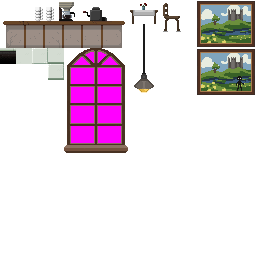
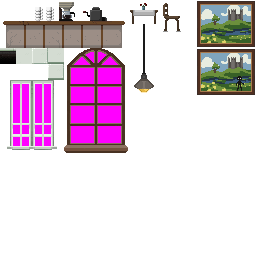
particles and props

Changed region(s): [[0.0312, 0.3125, 0.2188, 0.5938]]

diff --git a/core/src/fi/jakojaannos/unstable/renderer/RenderPosters.java b/core/src/fi/jakojaannos/unstable/renderer/RenderPosters.java
@@ -36,6 +36,10 @@ public class RenderPosters implements EcsSystem<RenderPosters.Input>, AutoClosea
     private final Texture tohtori;
     private final Texture statuetable;
     private final Texture medrep;
+    private final Texture npcMies;
+    private final Texture npcMies2;
+    private final Texture npcNaine;
+    private final Texture npcNaine2;
 
     public RenderPosters(SpriteBatch spriteBatch) {
         this.spriteBatch = spriteBatch;
@@ -55,6 +59,10 @@ public class RenderPosters implements EcsSystem<RenderPosters.Input>, AutoClosea
         this.tohtoriDed = new Texture("doctor_ded.png");
         this.statuetable = new Texture("rintakuvaPöytäSpooky.png");
         this.medrep = new Texture("medicareport_SMALLL.png");
+        this.npcMies = new Texture("npcmies1.png");
+        this.npcMies2 = new Texture("npcmies2.png");
+        this.npcNaine = new Texture("npcnaine1.png");
+        this.npcNaine2 = new Texture("npcnaine2.png");
 
         this.variants = new TextureRegion[][]{
                 {
@@ -66,8 +74,8 @@ public class RenderPosters implements EcsSystem<RenderPosters.Input>, AutoClosea
                         new TextureRegion(this.tilesCafe, 196, 48, 64, 48),
                 },
                 {
-                        new TextureRegion(this.tilesCafe, 64, 48, 64, 105),
-                        new TextureRegion(this.tilesCafe, 64, 48, 64, 105),
+                        new TextureRegion(this.tilesCafe, 0, 80, 64, 73),
+                        new TextureRegion(this.tilesCafe, 0, 80, 64, 73),
                 },
                 {
                         new TextureRegion(this.tilesCafe, 0, 0, 128, 48),
@@ -140,6 +148,30 @@ public class RenderPosters implements EcsSystem<RenderPosters.Input>, AutoClosea
                         new TextureRegion(this.medrep),
                         new TextureRegion(this.medrep),
                 },
+                {
+                        new TextureRegion(this.tilesCafe, 128, 0, 32, 24),
+                        new TextureRegion(this.tilesCafe, 128, 0, 32, 24),
+                },
+                {
+                        new TextureRegion(this.npcMies, 0, 0, 32, 48),
+                        new TextureRegion(this.npcMies, 32, 0, 32, 48),
+                },
+                {
+                        new TextureRegion(this.npcMies2, 32, 0, -32, 48),
+                        new TextureRegion(this.npcMies2, 64, 0, -32, 48),
+                },
+                {
+                        new TextureRegion(this.tilesCafe, 128, 24, 32, 72),
+                        new TextureRegion(this.tilesCafe, 128, 24, 32, 72),
+                },
+                {
+                        new TextureRegion(this.npcNaine, 0, 0, 32, 48),
+                        new TextureRegion(this.npcNaine, 32, 0, 32, 48),
+                },
+                {
+                        new TextureRegion(this.npcNaine2, 32, 0, -32, 48),
+                        new TextureRegion(this.npcNaine2, 64, 0, -32, 48),
+                },
         };
 
         this.interact = Gdx.audio.newSound(Gdx.files.internal("PaperTurnPage.ogg"));
@@ -170,7 +202,7 @@ public class RenderPosters implements EcsSystem<RenderPosters.Input>, AutoClosea
                  }
 
                  final var isAnimated = switch (poster.type) {
-                     case Furnace -> true;
+                     case Furnace, NpcMIES, NpcMIES2, NpcNAINE, NpcNAINE2 -> true;
                      default -> false;
                  };
 
@@ -186,6 +218,8 @@ public class RenderPosters implements EcsSystem<RenderPosters.Input>, AutoClosea
 
                      final var loopDuration = switch (poster.type) {
                          case Furnace -> 2.5f;
+                         case NpcMIES, NpcNAINE -> 0.5f;
+                         case NpcMIES2, NpcNAINE2 -> 2.25f;
                          default -> 1.0f;
                      };
 

diff --git a/core/src/fi/jakojaannos/unstable/acts/intro/CafeIntroRoom.java b/core/src/fi/jakojaannos/unstable/acts/intro/CafeIntroRoom.java
@@ -85,10 +85,35 @@ public class CafeIntroRoom {
 
                 for (int i = 0; i < 3; i++) {
                     world.spawn(Poster.create(
-                            new Vector2(2.0f + i * 7.0f, 2.0f),
+                            new Vector2(3.0f + i * 7.0f, 12.0f),
+                            Poster.Type.Lambu,
+                            null));
+
+                    world.spawn(Poster.create(
+                            new Vector2(2.0f + i * 7.0f, 3.0f),
                             Poster.Type.WINDOW,
                             null));
+
+                    world.spawn(Poster.create(
+                            new Vector2(3.0f + i * 7.0f, 1.0f),
+                            Poster.Type.TABLE,
+                            null));
+
+                    world.spawn(Poster.create(
+                            new Vector2(1f + i * 7.0f, 1.0f),
+                            i % 2 == 0 ? Poster.Type.NpcNAINE : Poster.Type.NpcMIES,
+                            null));
+
+                    world.spawn(Poster.create(
+                            new Vector2(5.0f + i * 7.0f, 1.0f),
+                            i % 2 == 0 ? Poster.Type.NpcMIES2 : Poster.Type.NpcNAINE2,
+                            null));
                 }
+
+                world.spawn(Poster.create(
+                        new Vector2(23.0f, 4.75f),
+                        Poster.Type.PAINTING,
+                        null));
 
                 world.spawn(Nurse.create(new Vector2(10.0f, 1.0f)));
             }

diff --git a/core/src/fi/jakojaannos/unstable/components/tasks/MoveKys.java b/core/src/fi/jakojaannos/unstable/components/tasks/MoveKys.java
@@ -1,12 +1,13 @@
 package fi.jakojaannos.unstable.components.tasks;
 
+import com.badlogic.gdx.graphics.Color;
 import com.badlogic.gdx.math.Vector2;
 import fi.jakojaannos.unstable.components.MovementInput;
 import fi.jakojaannos.unstable.components.PhysicsBody;
 import fi.jakojaannos.unstable.ecs.Entity;
 import fi.jakojaannos.unstable.resources.Resources;
 
-public class MoveKys<T> implements Task<T>{
+public class MoveKys<T> implements Task<T> {
     private final Vector2 target;
     private final float targetDistance2;
 
@@ -33,7 +34,14 @@ public class MoveKys<T> implements Task<T>{
     public void doAction(Entity entity, Resources resources) {
         final var playerPos = resources.player.getComponent(PhysicsBody.class).orElseThrow().getPosition();
         final var distToPlayer = playerPos.dst2(entity.getComponent(PhysicsBody.class).orElseThrow().getPosition());
-        if(distToPlayer <= this.targetDistance2){
+        if (distToPlayer <= this.targetDistance2) {
+
+            var tick = resources.timeManager.currentTick();
+            final var body = entity.getComponent(PhysicsBody.class).orElseThrow();
+            final var pos = body.getPosition().cpy();
+            pos.add(body.getWidth() / 2.0f, body.getHeight() / 2.0f);
+            resources.particles.burst(pos, new Color(0.8f, 0.8f, 0.8f, 1.0f), 250, tick);
+
             entity.destroy();
             return;
         }

diff --git a/core/src/fi/jakojaannos/unstable/resources/Particles.java b/core/src/fi/jakojaannos/unstable/resources/Particles.java
@@ -10,16 +10,16 @@ import java.util.List;
 public class Particles {
     public final List<Particle> list = new ArrayList<>();
 
-    public void burst(Vector2 origin, Color color, int currentTick) {
-        for (int i = 0; i < 15; i++) {
+    public void burst(Vector2 origin, Color color,int count, int currentTick) {
+        for (int i = 0; i < count; i++) {
             this.list.add(new Particle(
                     color,
-                    new Vector2(origin).add(MathUtils.random(-0.5f, 0.5f), MathUtils.random(-0.1f, 0.1f)),
+                    new Vector2(origin).add(MathUtils.random(-0.2f, 0.2f), MathUtils.random(-1.2f, 1.8f)),
                     new Vector2(MathUtils.random(-2.0f, 2.0f), MathUtils.random(-2.0f, 2.0f)),
                     currentTick,
                     MathUtils.random(50, 4 * 50),
-                    0.1f, 0.05f,
-                    0.1f, 0.05f
+                    MathUtils.random(0.05f, 0.2f), MathUtils.random(0.05f, 0.15f),
+                    MathUtils.random(0.05f, 0.2f), MathUtils.random(0.05f, 0.15f)
             ));
         }
     }

diff --git a/core/src/fi/jakojaannos/unstable/entities/BreakableBlocker.java b/core/src/fi/jakojaannos/unstable/entities/BreakableBlocker.java
@@ -1,5 +1,6 @@
 package fi.jakojaannos.unstable.entities;
 
+import com.badlogic.gdx.graphics.Color;
 import com.badlogic.gdx.math.Vector2;
 import fi.jakojaannos.unstable.components.PhysicsBody;
 import fi.jakojaannos.unstable.ecs.Component;
@@ -57,6 +58,12 @@ public class BreakableBlocker implements Component<BreakableBlocker> {
 
                          @Override
                          public boolean execute(Entity s, Resources r) {
+                             final var tick = r.timeManager.currentTick();
+                             final var body = s.getComponent(PhysicsBody.class).orElseThrow();
+                             final var pos = body.getPosition().cpy();
+                             pos.add(body.getWidth() / 2.0f, body.getHeight() / 2.0f);
+                             r.particles.burst(pos, new Color(0x347084FF), 50, tick);
+
                              s.getComponent(BreakableBlocker.class).ifPresent(bb -> bb.broken = true);
                              s.removeComponent(Interactable.class);
                              return true;

diff --git a/core/src/fi/jakojaannos/unstable/UnstableGame.java b/core/src/fi/jakojaannos/unstable/UnstableGame.java
@@ -8,6 +8,7 @@ import com.badlogic.gdx.math.Vector3;
 import com.badlogic.gdx.math.collision.BoundingBox;
 import com.badlogic.gdx.utils.ScreenUtils;
 import fi.jakojaannos.unstable.acts.Act;
+import fi.jakojaannos.unstable.acts.act2.Act2;
 import fi.jakojaannos.unstable.acts.end.TheEnd;
 import fi.jakojaannos.unstable.acts.intro.Intro;
 import fi.jakojaannos.unstable.components.Tags;
@@ -53,8 +54,8 @@ public class UnstableGame extends ApplicationAdapter {
 
         // Initialize act
         resources.nextAct = new Intro();
-        //resources.nextAct = new Act3();
-        //resources.nextRoom = Act3.WAITING_ROOM;
+        //resources.nextAct = new Act2();
+        //resources.nextRoom = Act2.MIRROR_ROOM;
     }
 
     @Override

diff --git a/core/src/fi/jakojaannos/unstable/entities/Poster.java b/core/src/fi/jakojaannos/unstable/entities/Poster.java
@@ -205,6 +205,13 @@ public class Poster {
         PuzzlePaintingB,
         PuzzlePaintingC,
         DOCTOR,
-        StatueTable, MedicalReport,
+        StatueTable,
+        MedicalReport,
+        TABLE,
+        NpcMIES,
+        NpcMIES2,
+        Lambu,
+        NpcNAINE,
+        NpcNAINE2,
     }
 }
